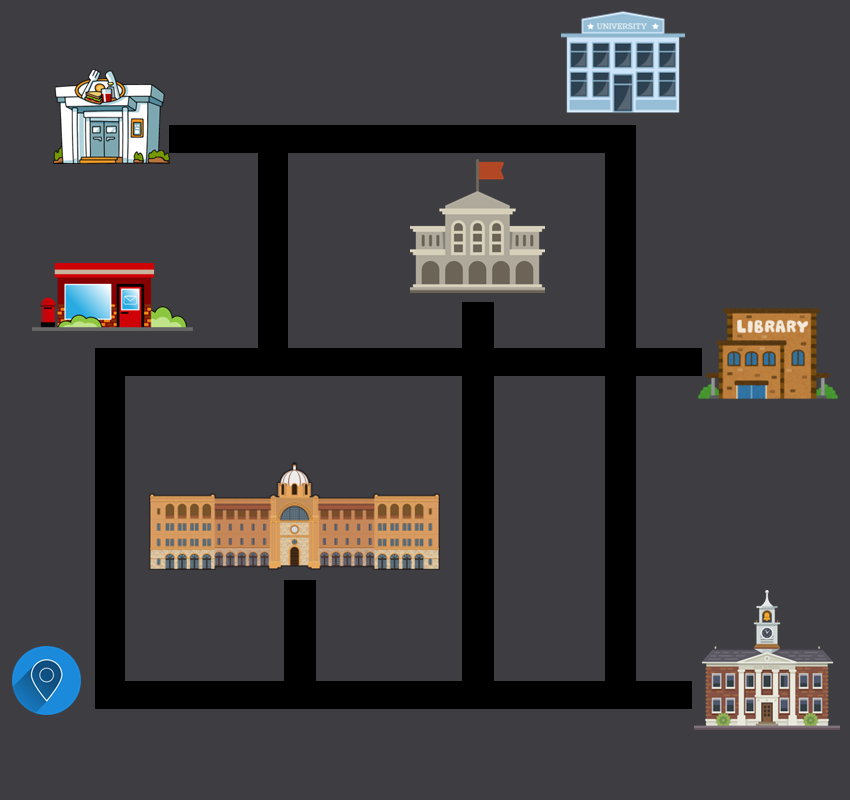
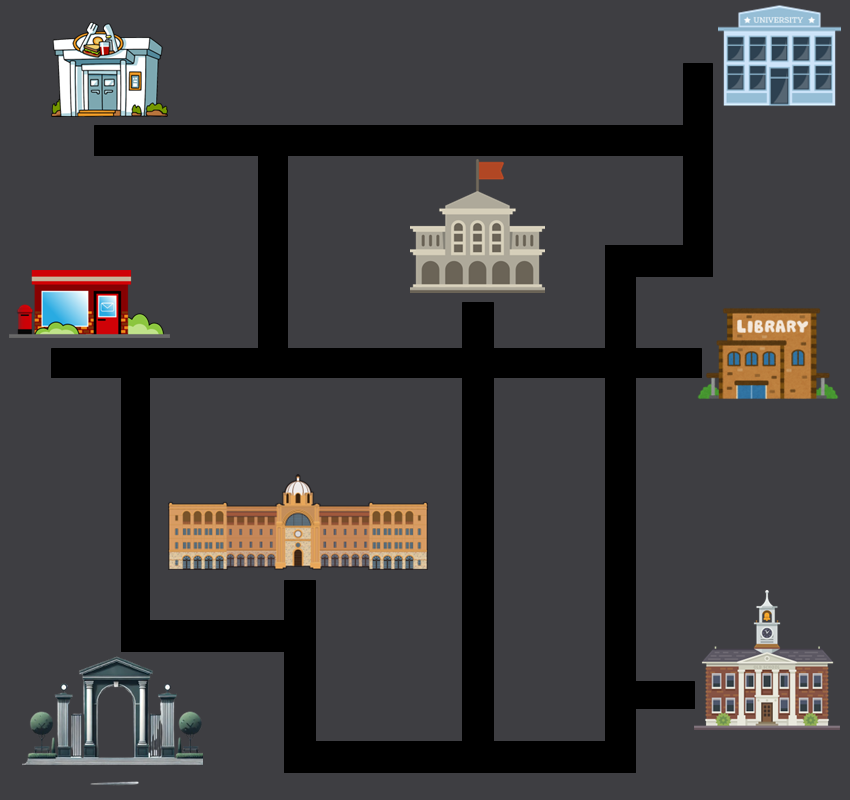
Map works (contains bug: doesnt update, shows previous path)

Changed region(s): [[0.0, 0.3125, 0.7647, 1.0], [0.3365, 0.0, 1.0, 0.3438], [0.0612, 0.0312, 0.3059, 0.2188]]

diff --git a/main.py b/main.py
@@ -1,17 +1,15 @@
 import os
 import heapq
 import tkinter as tk
-import tkinter.font as tkfont
-from tkinter import ttk
 from parser import ParseFile
 from math import sqrt
-from collections import defaultdict
 
 
 # markers are "location pins" on the map
 class Marker():
-    def __init__(self, coords, color="Red"):
+    def __init__(self, coords, name=None, color="Red"):
         self.coords = coords
+        self.name = name
         self.color = color
 
     # returns the distance between a marker and other along a straight line
@@ -30,14 +28,14 @@ class Marker():
 
 # subclass of Marker with default color as blue
 class LocationMarker(Marker):
-    def __init__(self, coords, color="blue"):
-        super().__init__(coords, color)
+    def __init__(self, coords, name=None, color="blue"):
+        super().__init__(coords, name, color)
 
 
 # subclass of Marker with default color as green
 class PathMarker(Marker):
-    def __init__(self, coords, color="red"):
-        super().__init__(coords, color)
+    def __init__(self, coords, name=None, color="red"):
+        super().__init__(coords, name, color)
 
 
 def CloseWindow(event=None):
@@ -78,10 +76,10 @@ def GetMarkersFromFile(file):
     locationMarkers = []
     pathMarkers = []
 
-    locationMarkerCoords, pathMarkerCoords = ParseFile(file)
+    locationMarkerCoords, locationMarkersNames, pathMarkerCoords = ParseFile(file)
 
-    for i in locationMarkerCoords:
-        locationMarkers.append(LocationMarker(i))
+    for i in range(len(locationMarkerCoords)):
+        locationMarkers.append(LocationMarker(locationMarkerCoords[i], name=locationMarkersNames[i]))
 
     for i in pathMarkerCoords:
         temp = []
@@ -180,6 +178,13 @@ def HighlightPath(path):
         map.create_line(
             path[i], path[i + 1], fill="blue", width=3)
 
+
+def GetCoordsFromName(name):
+    global locationMarkersList
+    for i in locationMarkersList:
+        if i.name.strip() == name:
+            return i.coords
+
 # root window
 root = tk.Tk("Nav_sys")
 
@@ -199,26 +204,30 @@ map.create_image(0, 0, anchor="nw", image=backgroundImage)
 
 #!---------------------------------------------------------------------------------------------------------------------------
 
-def PrintCoords(event):
-    print(f"({event.x}, {event.y})")
+# def PrintCoords(event):
+#     print(f"({event.x}, {event.y})")
 
 
-map.bind("<Button-1>", PrintCoords)
+# map.bind("<Button-1>", PrintCoords)
 
 #!---------------------------------------------------------------------------------------------------------------------------
 
-locationMarkers, pathMarkerList = GetMarkersFromFile(file)
+locationMarkersList, pathMarkerList = GetMarkersFromFile(file)
 DrawPathsFromMarkers(pathMarkerList, map)
 
 graph = BuildGraph(pathMarkerList)
 
-distance, path = GetPathLength(graph, (623, 695), (479, 361))
-print(distance)
+a = "ab3"
+b = "canteen"
+
+distance, path = GetPathLength(graph, GetCoordsFromName(a), GetCoordsFromName(b))
+# print(distance)
 print(path)
+
 
 HighlightPath(path)
 
-DrawMarkers(locationMarkers, map)
+DrawMarkers(locationMarkersList, map)
 DrawMarkers(pathMarkerList, map)
 
 root.bind("<Escape>", CloseWindow)

diff --git a/parser.py b/parser.py
@@ -3,6 +3,8 @@ def ParseFile(filePath):
 
     locationMarkerCoords = []
     PathMarkerCoords = []
+    locationMarkerNames = []
+    PathMarkerNames = []
 
     with open(filePath, "r") as file:
         lines = file.readlines()
@@ -17,12 +19,17 @@ def ParseFile(filePath):
                 # check if next line exists
                 if i + 1 < len(lines):
                     coordsLine = lines[i + 1].strip()
-                    coordsLine = coordsLine.removeprefix("(").removesuffix(")").strip()
+                    [coords, name] = coordsLine.split("#")
+                    coords = coords.strip()
+                    name = name.strip()
+                    coords = coords.removeprefix("(").strip().removesuffix(")")
                     # print(coordsLine)
                     #convert the integers into a tuple
-                    coord = tuple(map(int, coordsLine.split(", ")))
+                    coord = tuple(map(int, coords.split(", ")))
 
                     locationMarkerCoords.append(coord)
+                    locationMarkerNames.append(name)
+                    
 
             if line.startswith("Path"):
                 pathCoords = []
@@ -52,4 +59,4 @@ def ParseFile(filePath):
 
                 PathMarkerCoords.append(pathCoords)
 
-    return locationMarkerCoords, PathMarkerCoords
+    return locationMarkerCoords, locationMarkerNames, PathMarkerCoords 
